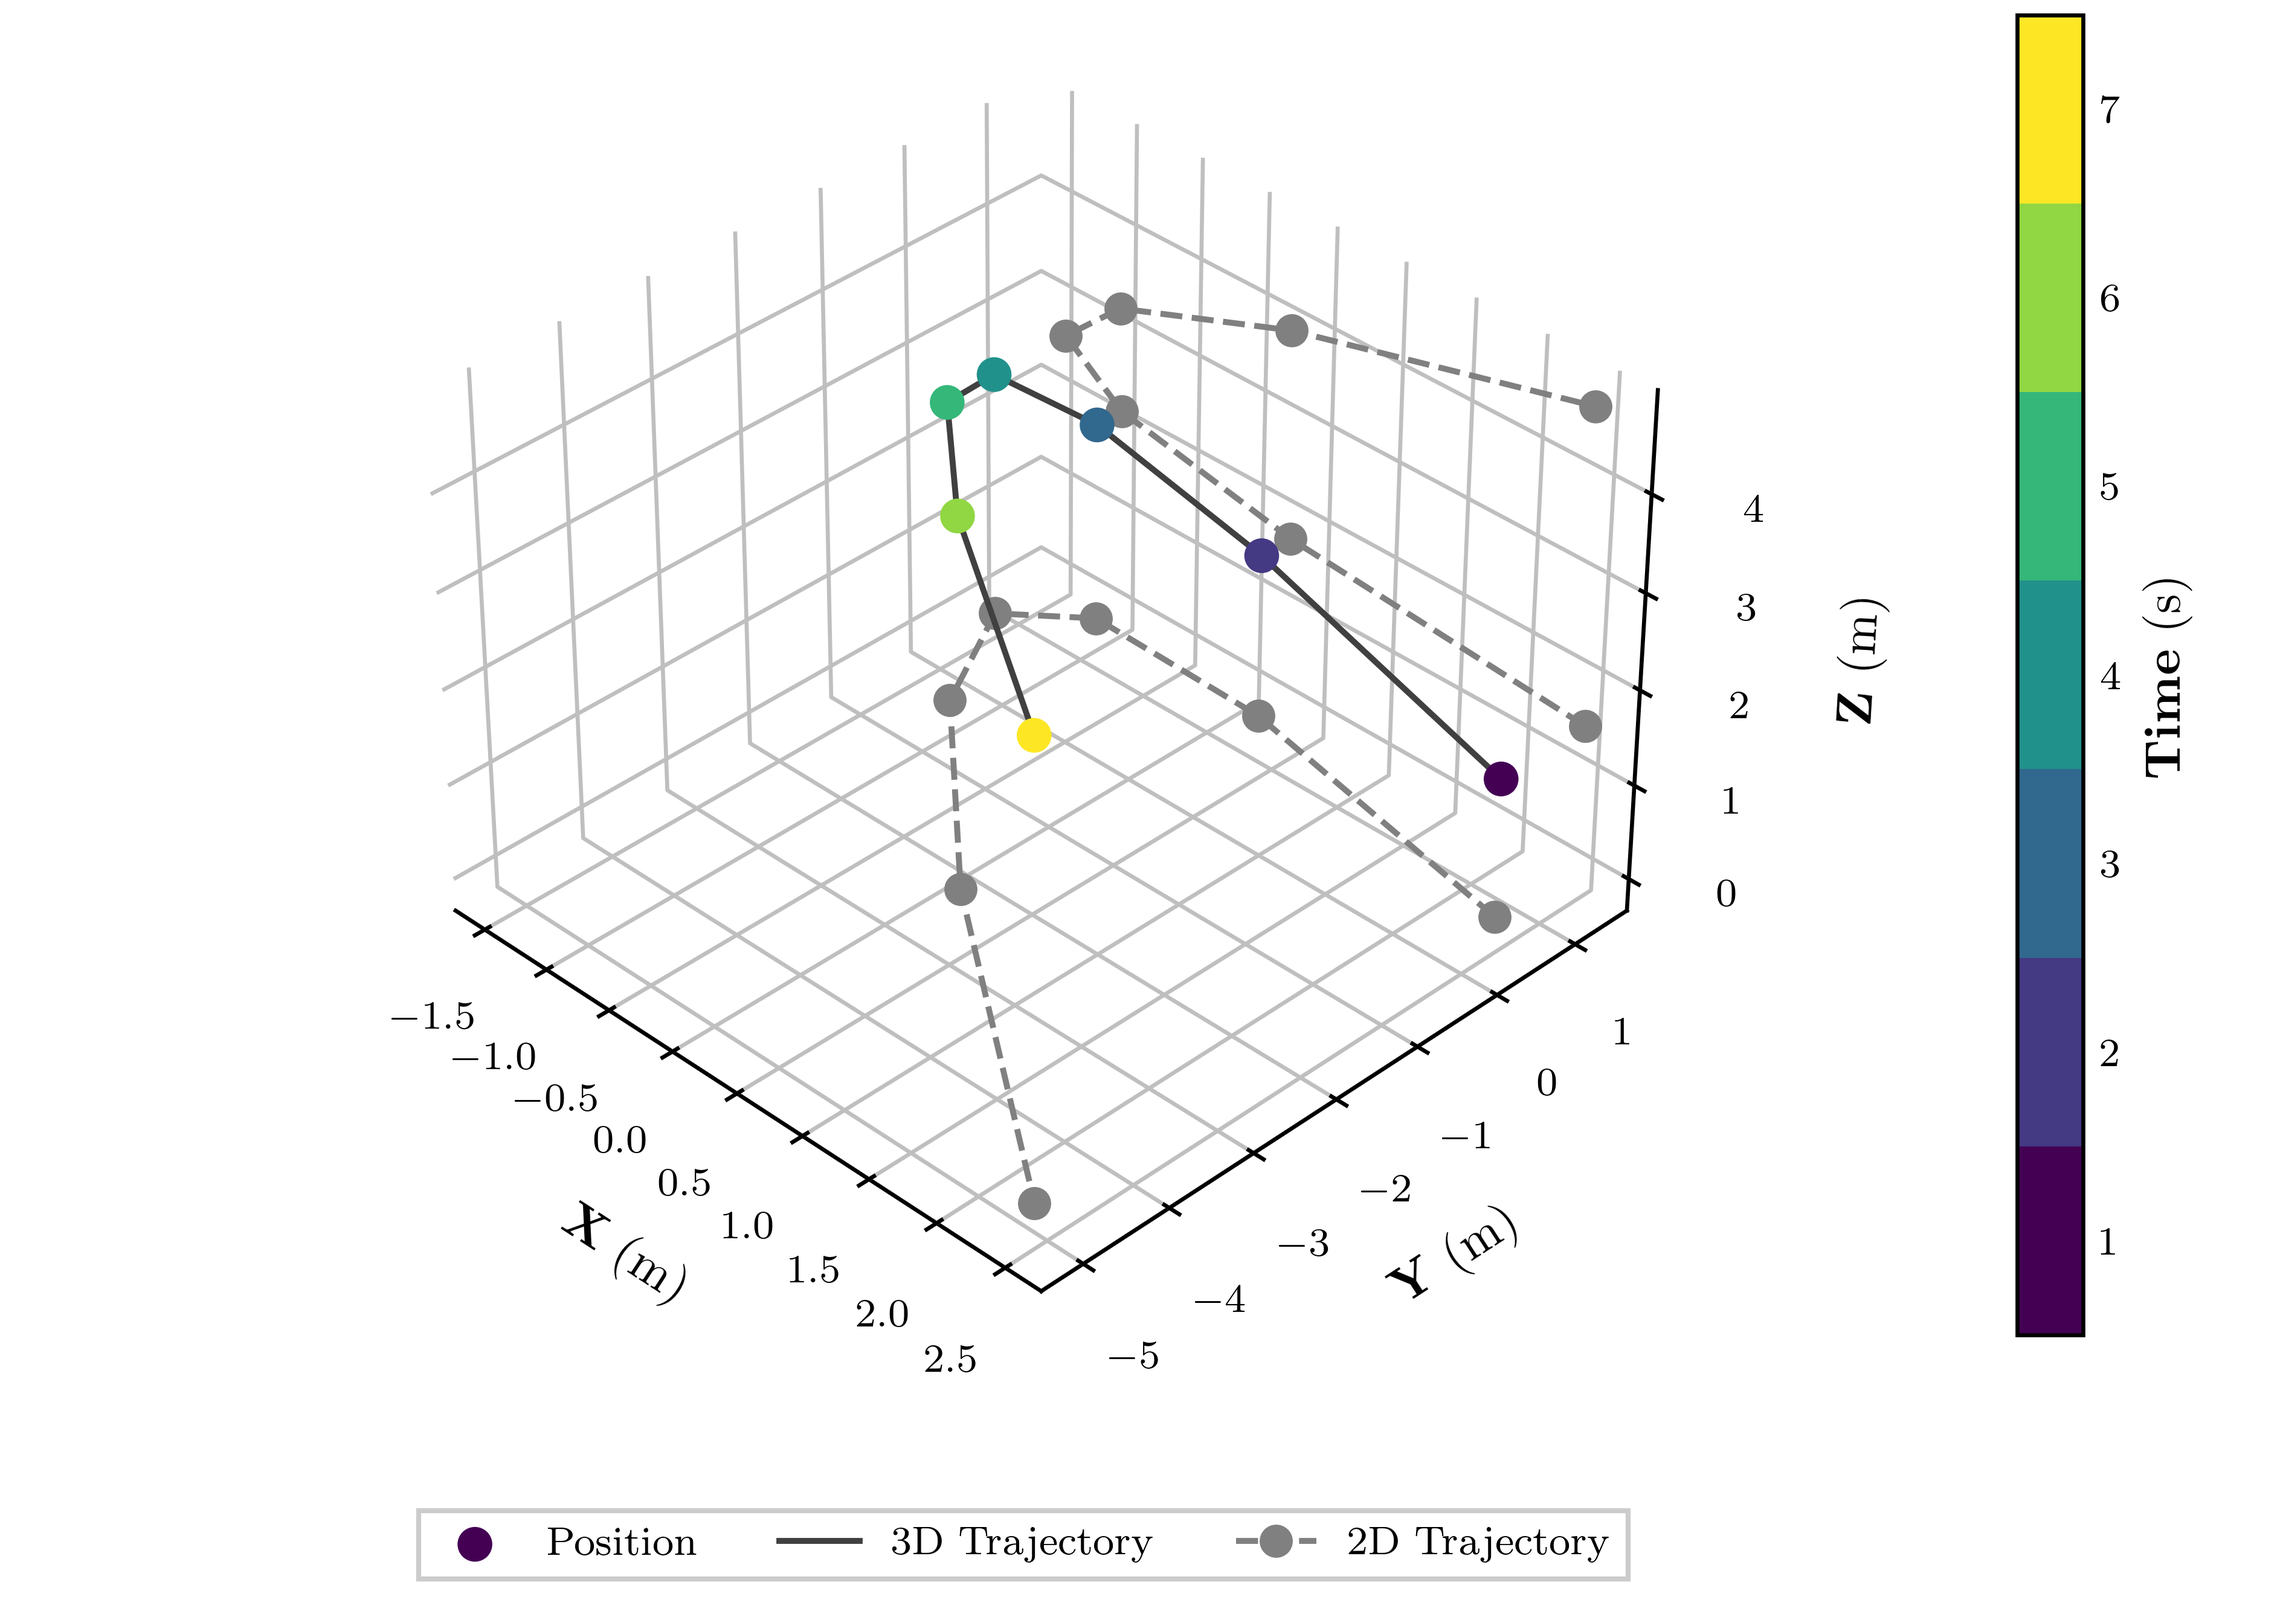
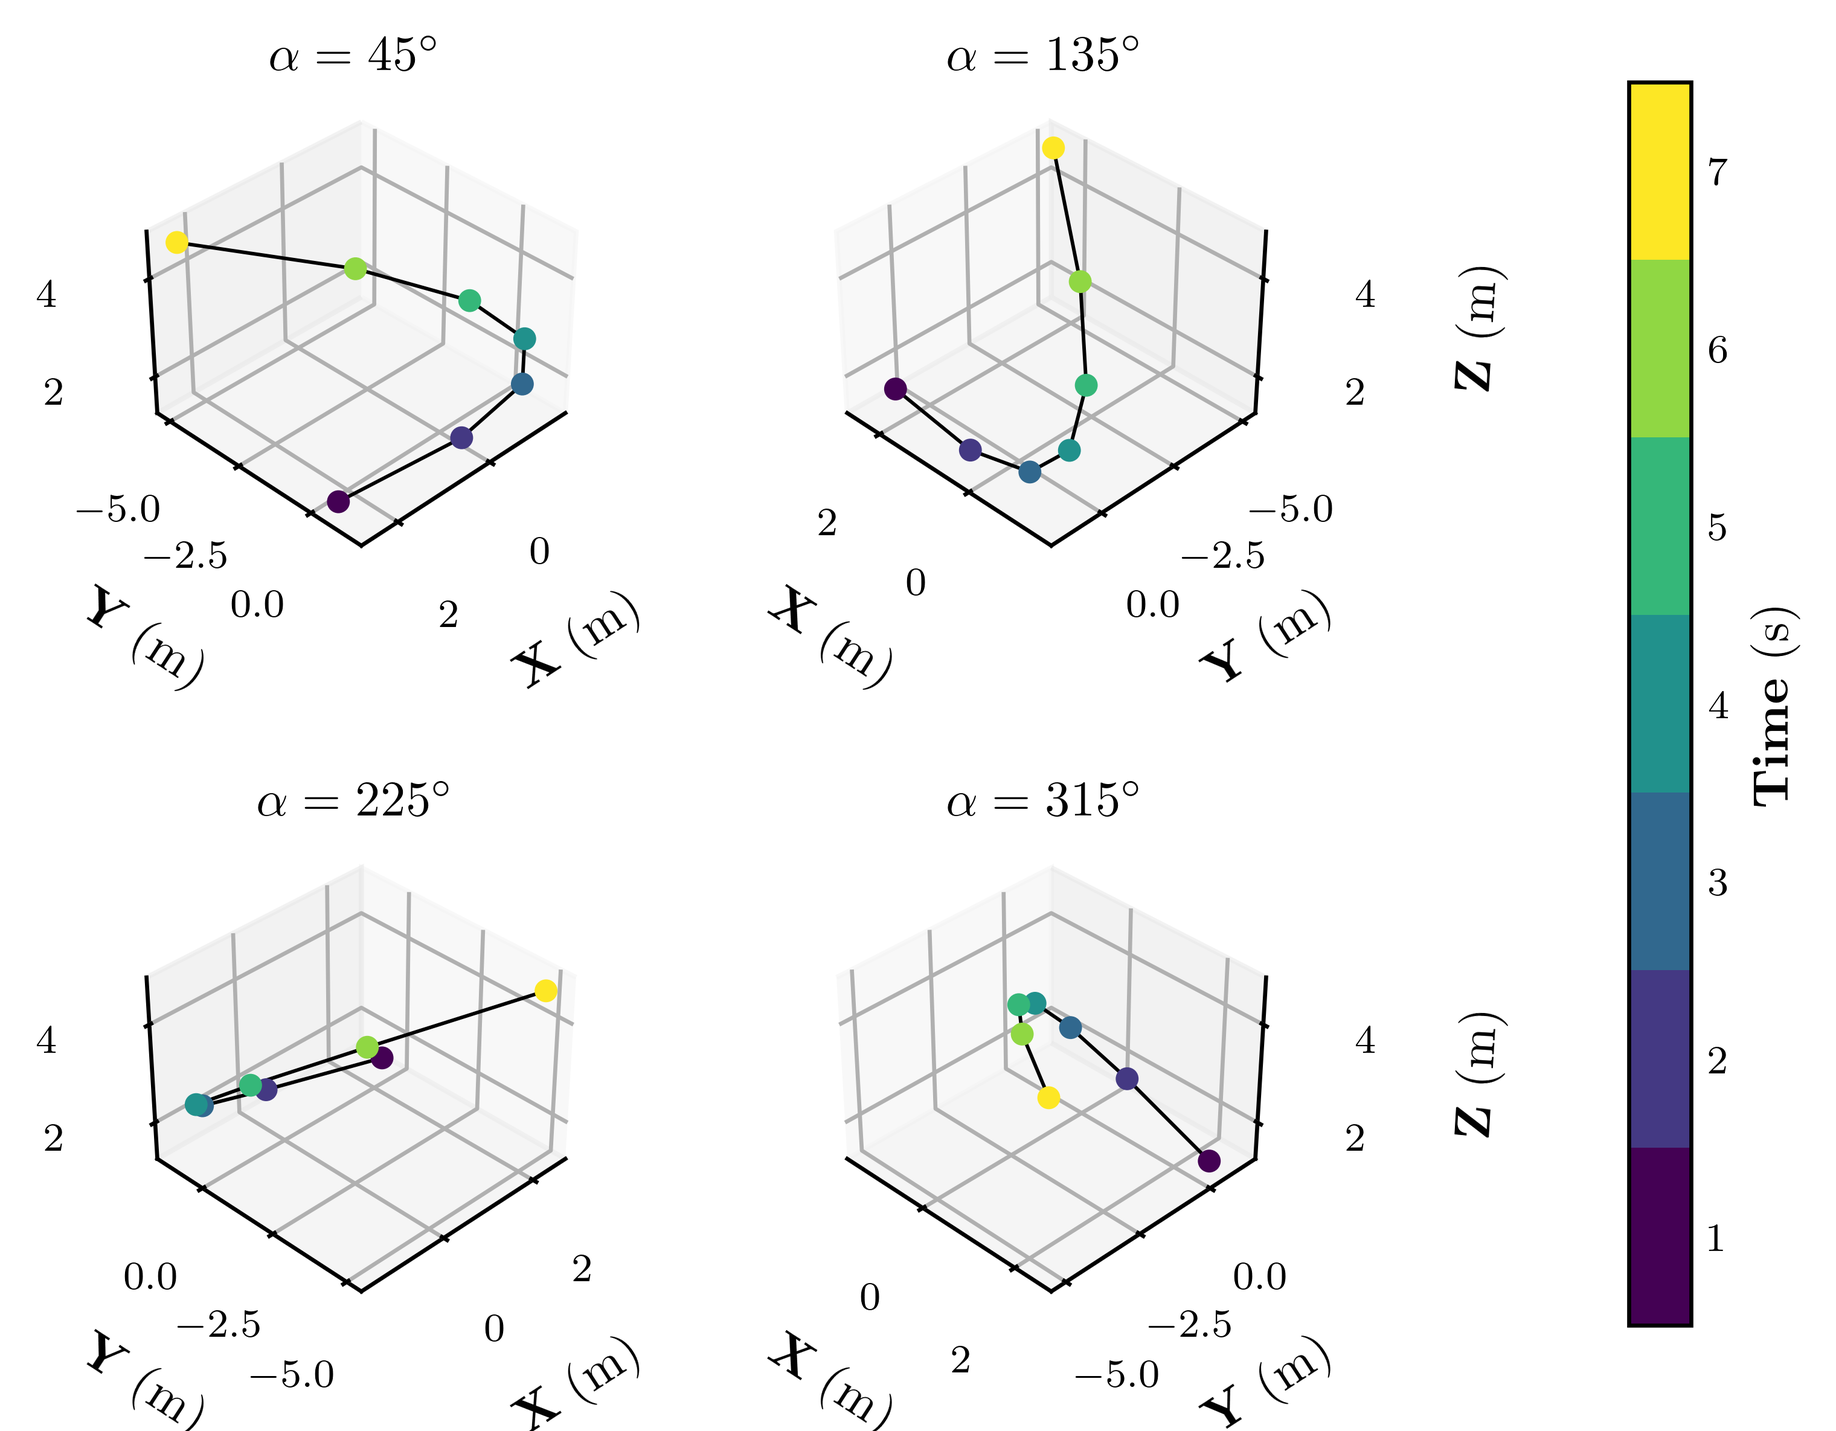
Review Round 2

diff --git a/main.py b/main.py
@@ -8,42 +8,54 @@ import numpy as np
 mpl.rcdefaults()
 
 # Specify the plotting style.
-mpl.rcParams["figure.constrained_layout.use"] = True
+# Figure Settings
+# DPI
 mpl.rcParams["figure.dpi"] = 600
-# Specify the paper size.
-paper_size = [21.0,  # W
-              29.7,  # H
-              ]
-# Specify the left and right margins.
-x_margins = [02.5,  # L
-             02.5,  # R
-             ]
-p_width = (paper_size[0] - x_margins[0] - x_margins[1]) / 2.54
-mpl.rcParams["figure.figsize"] = [p_width, p_width * paper_size[0] / paper_size[1]]
-mpl.rcParams["figure.labelsize"] = 10
-mpl.rcParams["figure.titlesize"] = 12
-mpl.rcParams["font.size"] = 10
-mpl.rcParams["legend.edgecolor"] = "#BFBFBF"
-mpl.rcParams["grid.color"] = "#BFBFBF"
-mpl.rcParams["legend.fancybox"] = False
-mpl.rcParams["legend.fontsize"] = 8
-mpl.rcParams["lines.markersize"] = (0.5 * (mpl.rcParams["figure.dpi"] / 25.4)) ** 2  # d=1 mm
-mpl.rcParams["savefig.transparent"] = True
-mpl.rcParams["lines.linewidth"] = 0.1 * math.sqrt(mpl.rcParams["lines.markersize"])
+# Layout
+# mpl.rcParams["figure.constrained_layout.use"]: True
+# Size Constraints
+# Paper Size
+paper_size = [21.0,  # W (cm)
+              29.7]  # H (cm)
+# Margins
+plr_margins = [2.5,  # L (cm)
+               2.5]  # R (cm)
+# Width
+graph_width = (paper_size[0] - plr_margins[0] - plr_margins[1]) / 2.54
+# Size
+mpl.rcParams["figure.figsize"] = [graph_width, graph_width *
+                                  # Paper Aspect Ratio
+                                  paper_size[0] / paper_size[1]]
+# Marker
 mpl.rcParams["scatter.marker"] = "."
-# Computer Modern Serif
-mpl.rcParams["font.family"] = "serif"
-mpl.rcParams[
-    "text.latex.preamble"] = r"\usepackage[utf8]{inputenc}\usepackage[T1]{fontenc}\usepackage{amsmath, amssymb, siunitx, upgreek}"
+# Marker Radius
+# 0.3 mm
+mpl.rcParams["lines.markersize"] = (0.3 * (mpl.rcParams["figure.dpi"] / 25.4)) ** 2
+# Line Width
+# 0.1 mm
+mpl.rcParams["lines.linewidth"] = 0.1 * math.sqrt(mpl.rcParams["lines.markersize"])
+# LaTeX Compiler Settings
 mpl.rcParams["text.usetex"] = True
+# Font
+mpl.rcParams["font.family"] = "Computer Modern Roman"
+# Font Size
+# Global
+mpl.rcParams["font.size"] = 10
+# Titles
+mpl.rcParams["axes.titlesize"] = 10
+# Label Ticks
 mpl.rcParams["xtick.labelsize"] = 8
 mpl.rcParams["ytick.labelsize"] = 8
-mpl.rcParams['axes3d.xaxis.panecolor'] = "#FFFFFF"
-mpl.rcParams['axes3d.yaxis.panecolor'] = "#FFFFFF"
-mpl.rcParams['axes3d.zaxis.panecolor'] = "#FFFFFF"
+# Preamble
+mpl.rcParams["text.latex.preamble"] = "\\usepackage{siunitx}"
+# Writer Settings
+# Whitespace
+mpl.rcParams["savefig.bbox"] = "tight"
+# Alpha Channel
+mpl.rcParams["savefig.transparent"] = True
 
 
-# If running into problems using matplotlib latex just uncomment this line:
+# Enable this command if you encounter any graphics-related issues.
 # mpl.rcParams.update(mpl.rcParamsDefault)
 
 
@@ -82,6 +94,23 @@ def build_weight_matrix(dependent_variable_matrix: np.ndarray, model_order: int)
     return np.ones((model_order + 1, dependent_variable_matrix.shape[1]))
 
 
+def subplot(ax, dependent_variable_matrix, independent_variable_matrix):
+    # Scatter the observed positions.
+    p = ax.scatter(dependent_variable_matrix[:, 0], dependent_variable_matrix[:, 1], dependent_variable_matrix[:, 2],
+                   alpha=1, c=list(range(1, len(dependent_variable_matrix) + 1)),
+                   cmap=plt.get_cmap('viridis', len(independent_variable_matrix)),
+                   # This parameter is required when using Axes3D.
+                   s=mpl.rcParams["lines.markersize"])
+    # Plot the observed trajectory.
+    ax.plot(dependent_variable_matrix[:, 0], dependent_variable_matrix[:, 1], dependent_variable_matrix[:, 2],
+            c="#000000")
+    # Set the primary axis labels.
+    ax.set_xlabel(r"\textbf{X} (\si{\meter)")
+    ax.set_ylabel(r"\textbf{Y} (\si{\meter)")
+    ax.set_zlabel(r"\textbf{Z} (\si{\meter)")
+    return p
+
+
 def plot_model(filename: str, dependent_variable_matrix: np.ndarray, independent_variable_matrix: np.ndarray) -> None:
     """
     Generates a plot of the regression model and saves the corresponding figure to disk.
@@ -94,41 +123,23 @@ def plot_model(filename: str, dependent_variable_matrix: np.ndarray, independent
         independent_variable_matrix:
             The independent variable matrix of the model.
     """
-    # Visualize the observed trajectory of the quadrocopter over time.
-    ax = plt.figure().add_subplot(projection='3d')
-    # Set the camera a front isometric view.
-    ax.view_init(elev=math.degrees(math.asin(1 / math.sqrt(3))), azim=-45)
-    # Scatter the observed positions.
-    p = ax.scatter(dependent_variable_matrix[:, 0], dependent_variable_matrix[:, 1], dependent_variable_matrix[:, 2],
-                   alpha=1, c=list(range(1, len(dependent_variable_matrix) + 1)),
-                   cmap=plt.get_cmap('viridis', len(independent_variable_matrix)),
-                   # This parameter is required when using Axes3D.
-                   s=mpl.rcParams["lines.markersize"])
-    # Plot the observed trajectory.
-    ax.plot(dependent_variable_matrix[:, 0], dependent_variable_matrix[:, 1], dependent_variable_matrix[:, 2],
-            c="#404040")
-    # Project the trajectory to the X-Y plane.
-    ax.plot(dependent_variable_matrix[:, 0], dependent_variable_matrix[:, 1], c="#808080", ls="--",
-            marker=mpl.rcParams["scatter.marker"],
-            # NOTE - Do not change the value of this parameter!
-            ms=0.08 * mpl.rcParams["lines.markersize"],
-            zorder=0)
-    # Disable the automatic axis scaling functionality.
-    min_y, max_y = plt.ylim()
-    plt.ylim(min_y, max_y)
-    # Project the trajectory to the X-Z plane.
-    ax.plot(dependent_variable_matrix[:, 0], np.full_like(dependent_variable_matrix[:, 0], max_y),
-            dependent_variable_matrix[:, 2], c="#808080", ls="--",
-            marker=mpl.rcParams["scatter.marker"],
-            # NOTE - Do not change the value of this parameter!
-            ms=0.08 * mpl.rcParams["lines.markersize"],
-            zorder=0)
-    # Set the primary axis labels.
-    ax.set_xlabel(r"\textbf{X} (\si{\meter)")
-    ax.set_ylabel(r"\textbf{Y} (\si{\meter)")
-    ax.set_zlabel(r"\textbf{Z} (\si{\meter)")
-    # Add a color bar to display time information.
-    cb = plt.colorbar(p, label=r"\textbf{Time} (\si{\second)",
+    # Visualize the observed trajectory of the quadrocopter.
+    # Create a 2x2 array of 3D subplots.
+    fig, axs = plt.subplots(2, 2, subplot_kw={'projection': '3d'})
+    # Specify the padding.
+    # NOTE - Do not change the value of this parameter!
+    plt.subplots_adjust(wspace=0.5, hspace=0.5)
+    # Generate each subplot.
+    for ax, i in zip(axs.flat, [0, 1, 2, 3]):
+        # Set the camera to an isometric view.
+        ax.view_init(azim=45 + i * 90, elev=math.degrees(math.asin(1 / math.sqrt(3))))
+        # ax.set_box_aspect(aspect=None, zoom=0.9)
+
+        sp = subplot(ax, dependent_variable_matrix, independent_variable_matrix)
+        # Add a label specifying the azimuth of the camera.
+        ax.set_title(r"$\alpha = {}$".format(45 + i * 90) + r"\si{\degree}")
+    # Add a common color bar to display time information.
+    cb = plt.colorbar(sp, ax=axs.flat, label=r"\textbf{Time} (\si{\second)",
                       # NOTE - Do not change the value of this parameter!
                       pad=0.2,
                       # NOTE - Do not change the value of this parameter!
@@ -138,10 +149,6 @@ def plot_model(filename: str, dependent_variable_matrix: np.ndarray, independent
     cb.ax.set_yticklabels(list(range(1, len(independent_variable_matrix) + 1)))
     # Hide the vertical axis ticks.
     cb.ax.axes.tick_params(length=0)
-    # Add a legend.
-    plt.legend(["Position", "3D Trajectory", "2D Trajectory"],
-               # NOTE - Do not change the value of this parameter!
-               bbox_to_anchor=(0.5, -0.2), loc="lower center", ncol=3)
 
     plt.savefig(filename)
 

diff --git a/README.md b/README.md
@@ -1,8 +1,8 @@
 # Description
 
-This is the source code developed for the first assignment of the course: "Macchine Learning for the Built Environment",
+This is the source code developed for the first assignment of the course: "Machine Learning for the Built Environment",
 at Delft University of Technology, The Netherlands. This program solves the programming-related, linear regression
-exercices proposed in the description of the assignment. In brief, these exercices revolve around the modeling of the
+exercises proposed in the description of the assignment. In brief, these exercises revolve around the modeling of the
 trajectory of a quadrocopter in 3D space.
 
 # Requirements
